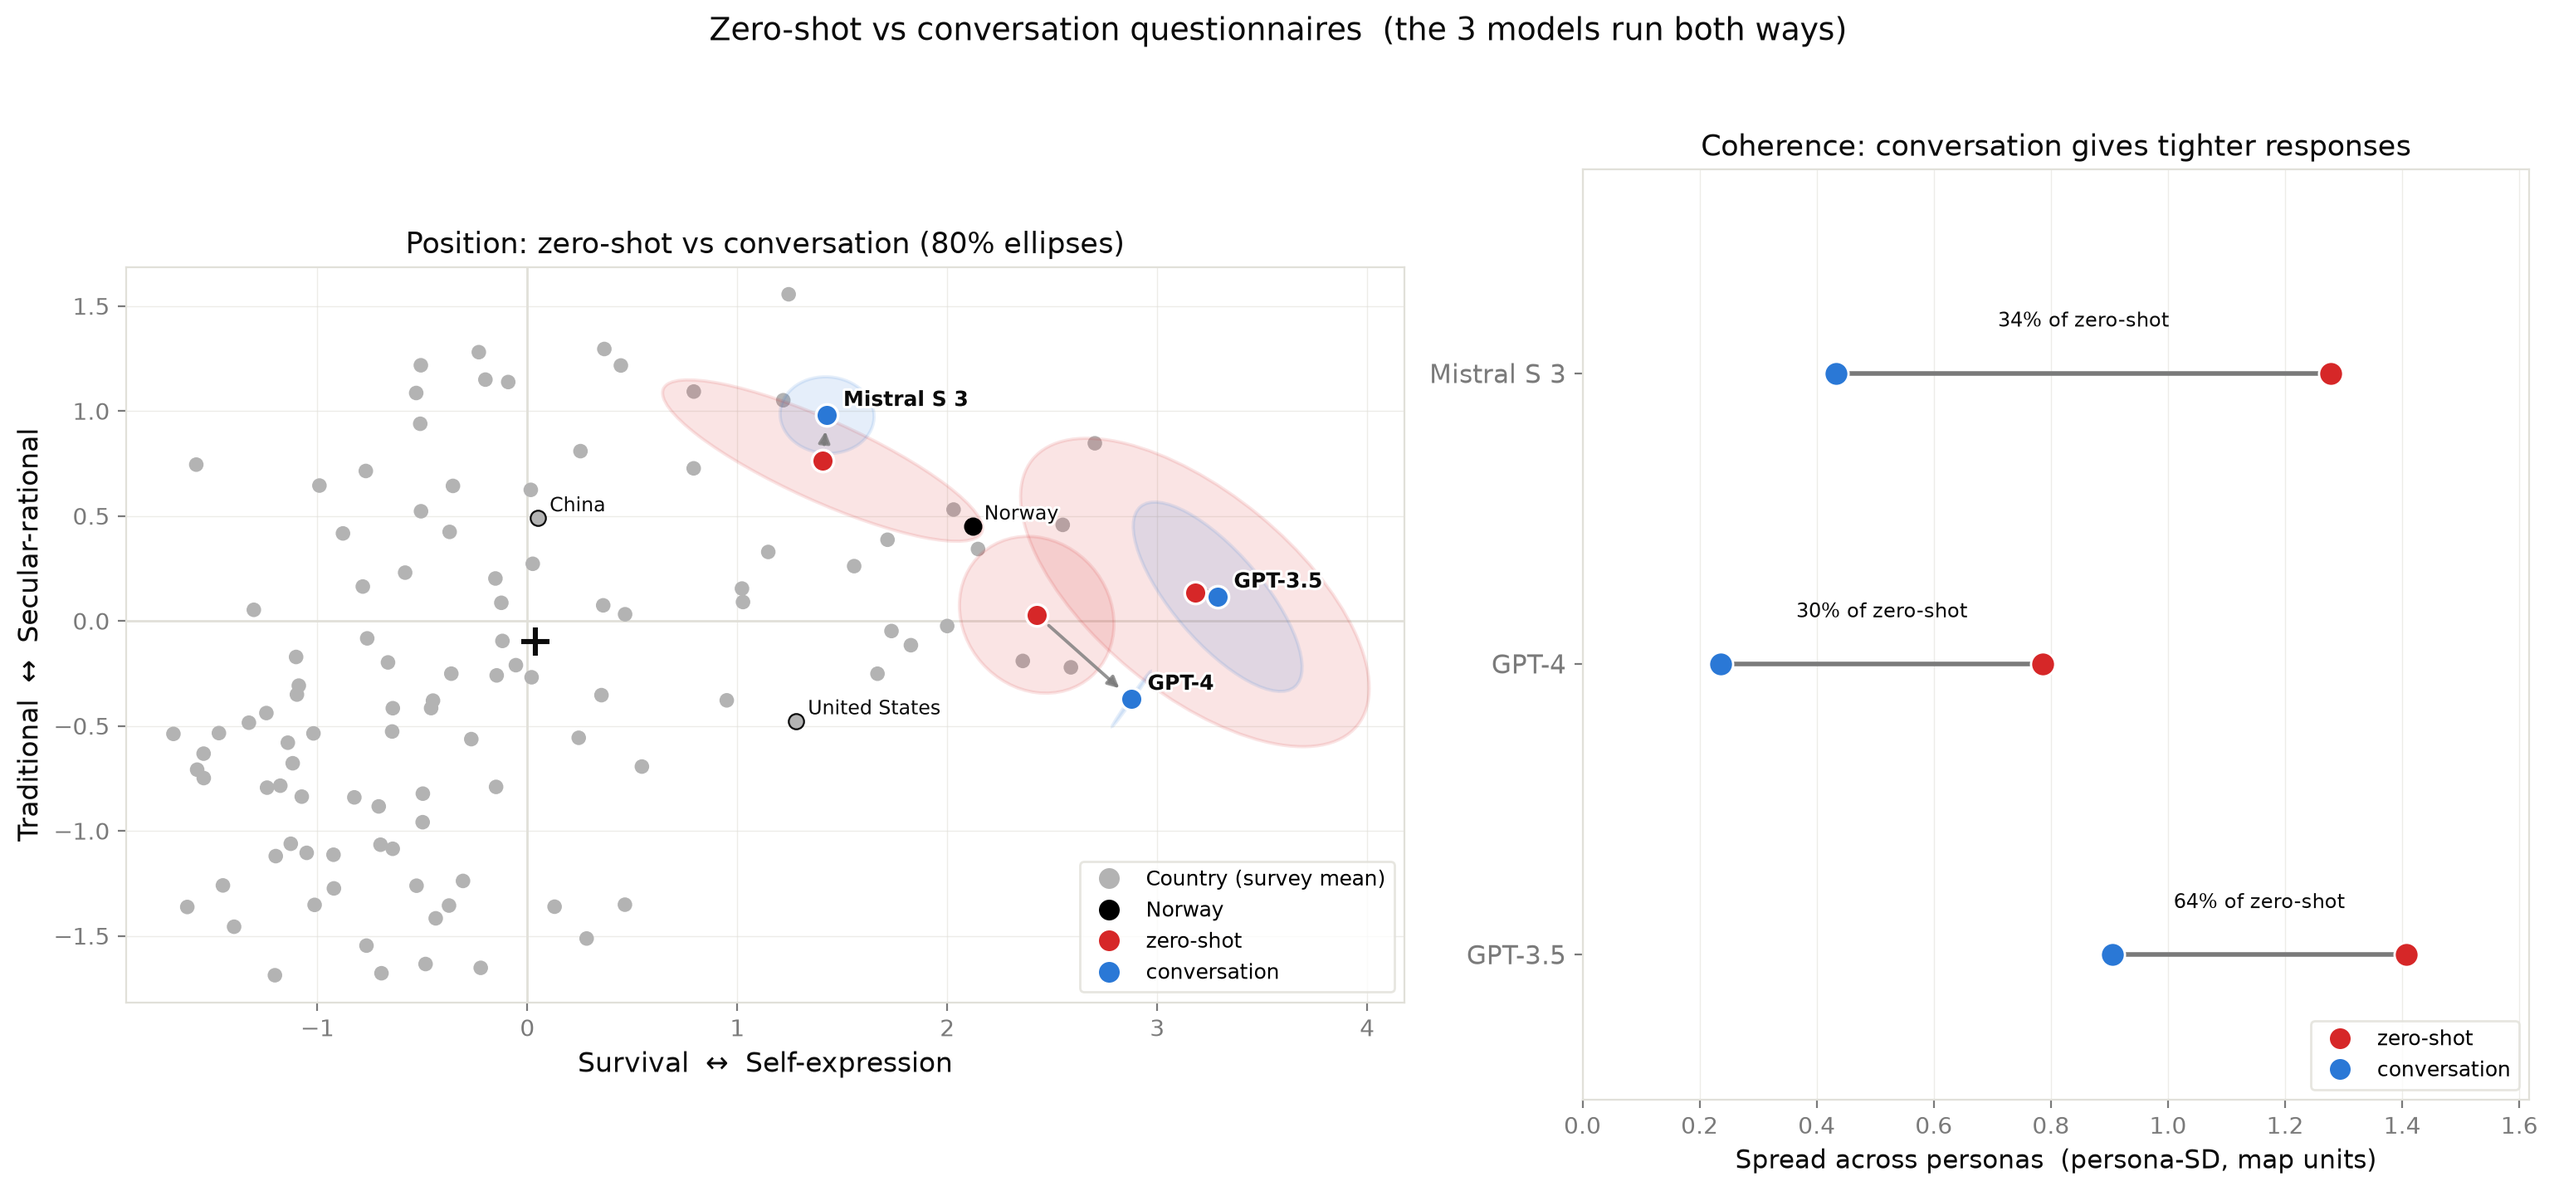
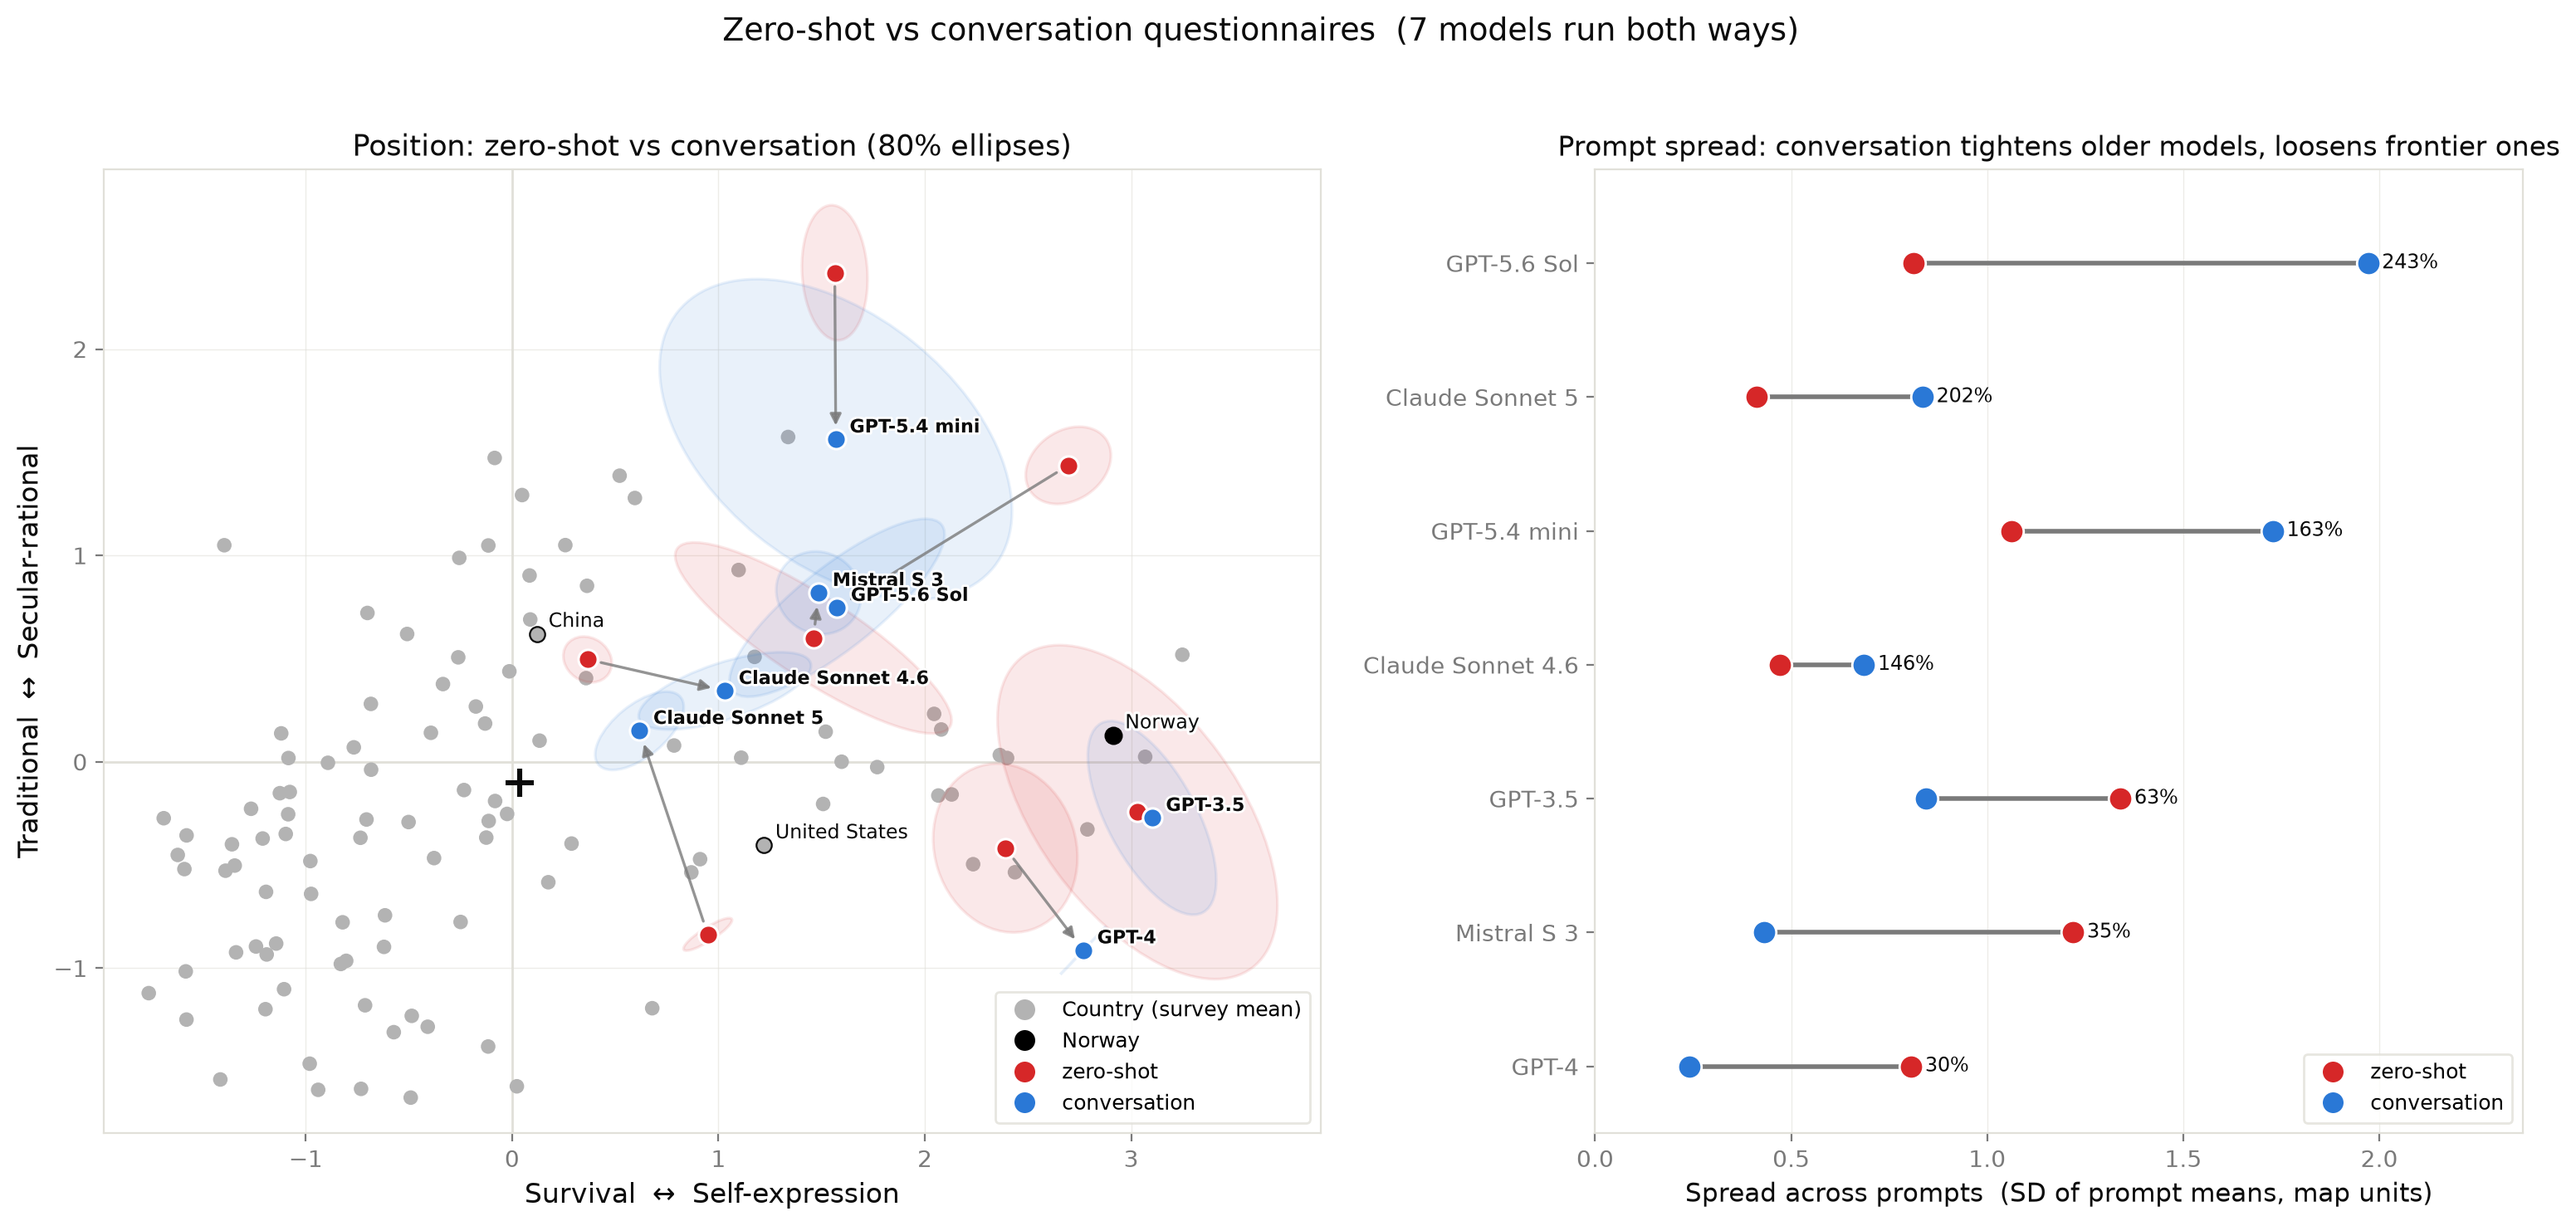
Catch up

diff --git a/figures/plot_zeroshot.py b/figures/plot_zeroshot.py
@@ -1,12 +1,15 @@
 #!/usr/bin/env python3
 """
-Paper figure: zero-shot vs conversation questionnaires, for the models run BOTH ways
-(GPT-3.5, GPT-4, Mistral S 3).
+Paper figure: zero-shot vs conversation questionnaires, for every model run BOTH ways.
+Pairs are matched by LABEL (zero-shot labels are "<name> (zero-shot)", conversation is
+"<name>"), which is robust to the two modes using different API model strings.
   Left  — map positions: each model's zero-shot and conversation mean with its 80%
-          ellipse, joined by a connector. Positions are similar; the conversation
-          ellipse is tighter.
-  Right — coherence: per-model spread across personas (persona-SD). Conversation is
-          consistently lower — more self-consistent responses.
+          ellipse, joined by a connector.
+  Right — coherence: spread across personas (SD of persona means) per model, zero-shot
+          vs conversation, ordered by the ratio.
+
+Reads the raw responses (NOT the zero-shot-filtered loader). Writes
+figures/zeroshot_vs_conversation.png.
 
 Usage: uv run --with matplotlib --with scipy python figures/plot_zeroshot.py
 """
@@ -29,8 +32,8 @@ sys.path.insert(0, str(FIG_DIR.parent / 'src'))
 import plot_cultural_map as base  # noqa: E402
 import compare as C  # noqa: E402
 
-PAIRED = {'gpt-3.5-turbo': 'GPT-3.5', 'gpt-4-turbo': 'GPT-4', 'mistral-small-2506': 'Mistral S 3'}
 ZS_COL, CONV_COL = '#d62728', '#2a78d6'   # zero-shot red, conversation blue
+SUFFIX = ' (zero-shot)'
 
 
 def main():
@@ -40,38 +43,47 @@ def main():
     df = pd.read_csv(C.RESPONSES_FILE).dropna(subset=V)
     Z = ((df[V].values - m) / s) @ w
     df = df.assign(x=1.81 * Z[:, 0] + 0.038, y=1.61 * Z[:, 1] - 0.1)
-    df['model'] = df['experiment_id'].astype(str).map({k: v['model'] for k, v in exp.items()})
+    df['label'] = df['experiment_id'].astype(str).map({k: v['label'] for k, v in exp.items()})
     df['zs'] = df['experiment_id'].astype(str).map({k: bool(v.get('zero_shot')) for k, v in exp.items()}).astype(bool)
-    df['persona'] = df['system'].map(C._persona)
+    df['prompt'] = df['system'].map(C._persona)
+    df['base'] = df['label'].str.replace(SUFFIX, '', regex=False)
 
-    rows = {}
-    for mod in PAIRED:
-        g = df[df['model'] == mod]
-        rows[mod] = {}
-        for mode, sub in (('zs', g[g['zs']]), ('conv', g[~g['zs']])):
-            pm = sub.groupby('persona')[['x', 'y']].mean()
-            rows[mod][mode] = dict(mean=pm.mean().to_numpy(),
-                                   sd=float(np.sqrt(pm['x'].var(ddof=1) + pm['y'].var(ddof=1))),
-                                   ell=C.hotelling_ellipse(pm['x'].values, pm['y'].values, 0.80))
+    zbases = set(df[df['zs']]['base']); cbases = set(df[~df['zs']]['base'])
+    paired = sorted(zbases & cbases)
 
-    fig, (axA, axB) = plt.subplots(1, 2, figsize=(15.5, 7.2), dpi=200,
+    def stats(g):
+        pm = g.groupby('prompt')[['x', 'y']].mean()
+        return dict(mean=pm.mean().to_numpy(),
+                    sd=float(np.sqrt(pm['x'].var(ddof=1) + pm['y'].var(ddof=1))),
+                    ell=C.hotelling_ellipse(pm['x'].values, pm['y'].values, 0.80))
+    rows = {b: {'zs': stats(df[df['zs'] & (df['base'] == b)]),
+                'conv': stats(df[~df['zs'] & (df['base'] == b)])} for b in paired}
+    paired.sort(key=lambda b: rows[b]['conv']['sd'] / rows[b]['zs']['sd'])   # tightening → loosening
+
+    print(f"{len(paired)} paired models:")
+    for b in paired:
+        r = rows[b]; ratio = r['conv']['sd'] / r['zs']['sd']
+        print(f"  {b:18} shift={np.hypot(*(r['conv']['mean']-r['zs']['mean'])):.2f}  "
+              f"zs-SD={r['zs']['sd']:.2f} conv-SD={r['conv']['sd']:.2f}  conv/zs={ratio:.0%}")
+
+    fig, (axA, axB) = plt.subplots(1, 2, figsize=(15.5, 7.4), dpi=200,
                                    gridspec_kw={'width_ratios': [1.35, 1]})
     fig.patch.set_facecolor(base.SURFACE)
 
     # -- Panel A: map --
-    for mod, name in PAIRED.items():
+    for b in paired:
         for mode, col in (('zs', ZS_COL), ('conv', CONV_COL)):
-            r = rows[mod][mode]; mu = r['mean']; e = r['ell']
+            r = rows[b][mode]; mu = r['mean']; e = r['ell']
             if e:
                 axA.add_patch(Ellipse(mu, 2 * e['ea'], 2 * e['eb'], angle=np.degrees(e['etheta']),
-                                      facecolor=col, alpha=0.12, edgecolor=col, lw=1.4, zorder=5))
-            axA.scatter(*mu, s=90, c=col, edgecolors='white', linewidths=1.2, zorder=7)
-        z, c = rows[mod]['zs']['mean'], rows[mod]['conv']['mean']
+                                      facecolor=col, alpha=0.10, edgecolor=col, lw=1.2, zorder=5))
+            axA.scatter(*mu, s=70, c=col, edgecolors='white', linewidths=1.1, zorder=7)
+        z, c = rows[b]['zs']['mean'], rows[b]['conv']['mean']
         axA.annotate('', xy=c, xytext=z, arrowprops=dict(arrowstyle='-|>', color=base.MUTED,
-                                                         lw=1.4, alpha=0.8, shrinkA=7, shrinkB=7), zorder=6)
-        axA.annotate(name, c, fontsize=9, fontweight='bold', color=base.INK, zorder=8,
-                     xytext=(7, 4), textcoords='offset points',
-                     path_effects=[pe.withStroke(linewidth=2.2, foreground='white')])
+                                                         lw=1.2, alpha=0.8, shrinkA=6, shrinkB=6), zorder=6)
+        axA.annotate(b, c, fontsize=8, fontweight='bold', color=base.INK, zorder=8,
+                     xytext=(6, 3), textcoords='offset points',
+                     path_effects=[pe.withStroke(linewidth=2, foreground='white')])
     base.draw_base_map(axA, grey=True, label_countries=['United States', 'China'],
                        extra_handles=[Line2D([0], [0], marker='o', color='w', markerfacecolor=ZS_COL,
                                              markeredgecolor='none', markersize=9, label='zero-shot'),
@@ -79,21 +91,21 @@ def main():
                                              markeredgecolor='none', markersize=9, label='conversation')])
     axA.set_title('Position: zero-shot vs conversation (80% ellipses)', fontsize=12.5, color=base.INK)
 
-    # -- Panel B: coherence (persona spread) --
+    # -- Panel B: coherence dumbbell --
     axB.set_facecolor(base.SURFACE)
-    names = list(PAIRED.values())
-    for i, mod in enumerate(PAIRED):
-        zsd, csd = rows[mod]['zs']['sd'], rows[mod]['conv']['sd']
+    for i, b in enumerate(paired):
+        zsd, csd = rows[b]['zs']['sd'], rows[b]['conv']['sd']
         axB.plot([zsd, csd], [i, i], color=base.MUTED, lw=2, zorder=2)
-        axB.scatter([zsd], [i], s=110, c=ZS_COL, zorder=3, edgecolors='white', linewidths=1)
-        axB.scatter([csd], [i], s=110, c=CONV_COL, zorder=3, edgecolors='white', linewidths=1)
-        axB.annotate(f'{csd/zsd:.0%} of zero-shot', ((zsd + csd) / 2, i + 0.16), fontsize=8.5,
-                     color=base.INK, ha='center')
-    axB.set_yticks(range(len(names))); axB.set_yticklabels(names, fontsize=11, color=base.INK)
-    axB.set_ylim(-0.5, len(names) - 0.3)
-    axB.set_xlim(0, max(rows[m]['zs']['sd'] for m in PAIRED) * 1.15)
-    axB.set_xlabel('Spread across personas  (persona-SD, map units)', fontsize=11, color=base.INK)
-    axB.set_title('Coherence: conversation gives tighter responses', fontsize=12.5, color=base.INK)
+        axB.scatter([zsd], [i], s=105, c=ZS_COL, zorder=3, edgecolors='white', linewidths=1)
+        axB.scatter([csd], [i], s=105, c=CONV_COL, zorder=3, edgecolors='white', linewidths=1)
+        axB.annotate(f'{csd/zsd:.0%}', (max(zsd, csd), i), fontsize=8.5, color=base.INK,
+                     va='center', ha='left', xytext=(6, 0), textcoords='offset points')
+    axB.axvline(0, color=base.GRID, lw=0)
+    axB.set_yticks(range(len(paired))); axB.set_yticklabels(paired, fontsize=10, color=base.INK)
+    axB.set_ylim(-0.5, len(paired) - 0.3)
+    axB.set_xlim(0, max(max(rows[b]['zs']['sd'], rows[b]['conv']['sd']) for b in paired) * 1.2)
+    axB.set_xlabel('Spread across prompts  (SD of prompt means, map units)', fontsize=11, color=base.INK)
+    axB.set_title('Prompt spread: conversation tightens older models, loosens frontier ones', fontsize=12, color=base.INK)
     axB.legend(handles=[Line2D([0], [0], marker='o', color='w', markerfacecolor=ZS_COL, markersize=10, label='zero-shot'),
                         Line2D([0], [0], marker='o', color='w', markerfacecolor=CONV_COL, markersize=10, label='conversation')],
                loc='lower right', fontsize=9, frameon=True, facecolor=base.SURFACE, edgecolor=base.GRID)
@@ -102,7 +114,7 @@ def main():
     for sp in axB.spines.values():
         sp.set_color(base.GRID)
 
-    fig.suptitle('Zero-shot vs conversation questionnaires  (the 3 models run both ways)',
+    fig.suptitle(f'Zero-shot vs conversation questionnaires  ({len(paired)} models run both ways)',
                  fontsize=13.5, color=base.INK, y=0.99)
     fig.tight_layout(rect=(0, 0, 1, 0.96))
     out = FIG_DIR / 'zeroshot_vs_conversation.png'

diff --git a/src/run_experiments.py b/src/run_experiments.py
@@ -45,12 +45,20 @@ SHORT_ANSWER_THRESHOLD = 5
 
 
 def load_experiments() -> dict:
+    """
+    Load the experiments configuration from the JSON file.
+
+    Returns:
+        A dictionary mapping experiment IDs to their configuration.
+    """
     with open(EXPERIMENTS_FILE) as f:
         return json.load(f)
 
 
 def load_questions() -> dict[str, str]:
-    """Return {VARIABLE: prompt_text} with the 'Question: ' prefix stripped."""
+    """
+    Return {VARIABLE: prompt_text} with the 'Question: ' prefix stripped.
+    """
     df = pd.read_csv(QUESTIONS_FILE)
     questions = df.set_index('scale')['prompt'].to_dict()
     return {k.upper(): v[10:] for k, v in questions.items()}
@@ -68,19 +76,39 @@ BATCH_SELECTORS = {
 
 
 def load_respondents() -> pd.DataFrame:
-    """Persona descriptors with the batch (version) each was introduced in."""
+    """
+    Persona descriptors with the batch (version) each was introduced in.
+    """
     return pd.read_csv(RESPONDENTS_FILE)[['respondent_descriptor', 'batch']]
 
 
 def personas_for(respondents: pd.DataFrame, batch: str) -> list[str]:
-    """Descriptors selected by an experiment's `batch` (see BATCH_SELECTORS)."""
+    """
+    Descriptors selected by an experiment's `batch` (see BATCH_SELECTORS).
+    """
     if batch not in BATCH_SELECTORS:
         raise ValueError(f'Unknown batch {batch!r}. Known: {sorted(BATCH_SELECTORS)}')
     return respondents[respondents['batch'].isin(BATCH_SELECTORS[batch])]['respondent_descriptor'].tolist()
 
 
-def run_experiment(expt_id: str, cfg: dict, questions: dict, respondents: list,
+def run_experiment(expt_id: str,
+                   cfg: dict,
+                   questions: dict,
+                   respondents: list,
                    position: int = 1) -> list[dict]:
+    """
+    Run a single experiment for the given respondents and questions.
+
+    Args:
+        expt_id: The experiment ID.
+        cfg: Configuration dictionary containing 'provider', 'model', and optional 'zero_shot' and 'reasoning_effort'.
+        questions: Dictionary mapping variable names to question texts.
+        respondents: List of respondent descriptors (system prompts).
+        position: Position of the progress bar (for concurrent experiments).
+
+    Returns:
+        A list of dictionaries, each representing a respondent's answers and computed scores.
+    """
     provider = cfg['provider']
     model = cfg['model']
     zero_shot = cfg.get('zero_shot', False)
@@ -118,6 +146,12 @@ def run_experiment(expt_id: str, cfg: dict, questions: dict, respondents: list,
 
 
 def append_responses(rows: list[dict]) -> None:
+    """
+    Append new experiment responses to the responses CSV file.
+
+    Args:
+        rows: A list of dictionaries, each representing a respondent's answers and computed scores.
+    """
     df_new = pd.DataFrame(rows)
     RESPONSES_FILE.parent.mkdir(exist_ok=True)
     if RESPONSES_FILE.exists():
@@ -141,7 +175,9 @@ def select_experiments(all_expts: dict, ids: list[str]) -> dict:
 
 
 def already_run_ids() -> set[str]:
-    """IDs already present in responses.csv, as strings (the column is stored as int)."""
+    """
+    IDs already present in responses.csv, as strings (the column is stored as int).
+    """
     if not RESPONSES_FILE.exists():
         return set()
     existing = pd.read_csv(RESPONSES_FILE, usecols=['experiment_id'])['experiment_id']
@@ -149,6 +185,12 @@ def already_run_ids() -> set[str]:
 
 
 def main() -> None:
+    """
+    Main entry point for running experiments in parallel.
+
+    Parses command-line arguments, selects experiments to run, and manages concurrent execution.
+    Skips already-run experiments unless --force is specified.
+    """
     parser = argparse.ArgumentParser(description=__doc__, formatter_class=argparse.RawDescriptionHelpFormatter)
     group = parser.add_mutually_exclusive_group(required=True)
     group.add_argument('--expts', nargs='+', metavar='ID', help='Experiment IDs to run')
